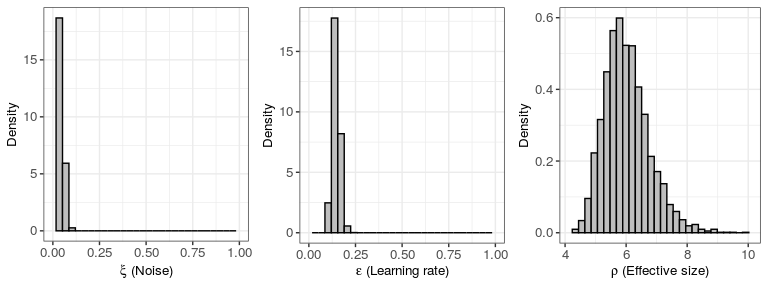
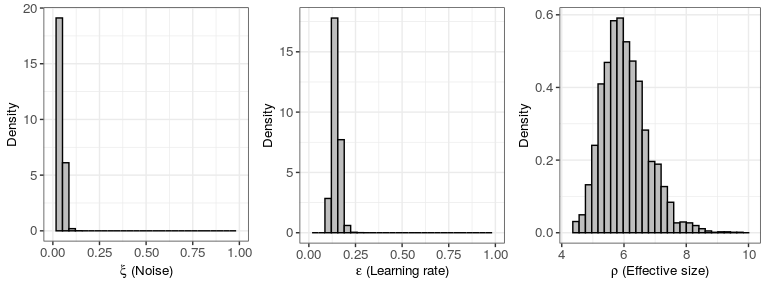
Update docs

diff --git a/articles/getting_started.html b/articles/getting_started.html
@@ -219,8 +219,8 @@
 ## Chain 1: 
 ## Chain 1: 
 ## Chain 1: 
-## Chain 1: Gradient evaluation took 0.001939 seconds
-## Chain 1: 1000 transitions using 10 leapfrog steps per transition would take 19.39 seconds.
+## Chain 1: Gradient evaluation took 0.001829 seconds
+## Chain 1: 1000 transitions using 10 leapfrog steps per transition would take 18.29 seconds.
 ## Chain 1: Adjust your expectations accordingly!
 ## Chain 1: 
 ## Chain 1: 
@@ -234,15 +234,15 @@
 ## Chain 1: 
 ## Chain 1: Begin stochastic gradient ascent.
 ## Chain 1:   iter             ELBO   delta_ELBO_mean   delta_ELBO_med   notes 
-## Chain 1:    100         -830.450             1.000            1.000
-## Chain 1:    200         -815.664             0.509            1.000
-## Chain 1:    300         -812.693             0.341            0.018
-## Chain 1:    400         -809.323             0.256            0.018
-## Chain 1:    500         -809.234             0.205            0.004   MEDIAN ELBO CONVERGED
+## Chain 1:    100         -820.269             1.000            1.000
+## Chain 1:    200         -810.308             0.506            1.000
+## Chain 1:    300         -815.111             0.339            0.012
+## Chain 1:    400         -809.368             0.256            0.012
+## Chain 1:    500         -809.646             0.205            0.007   MEDIAN ELBO CONVERGED
 ## Chain 1: 
 ## Chain 1: Drawing a sample of size 1000 from the approximate posterior... 
 ## Chain 1: COMPLETED.</code></pre>
-<pre><code>## Warning: Pareto k diagnostic value is 1.09. Resampling is disabled.
+<pre><code>## Warning: Pareto k diagnostic value is 1.25. Resampling is disabled.
 ## Decreasing tol_rel_obj may help if variational algorithm has terminated
 ## prematurely. Otherwise consider using sampling instead.</code></pre>
 <pre><code>## 
@@ -348,16 +348,16 @@ output1$allIndPars
 
 ```
 ##    subjID         xi        ep      rho
-## 1       1 0.03912684 0.1390364 5.971566
-## 2       2 0.03559554 0.1622292 6.154059
-## 3       3 0.04195460 0.1277940 5.922376
-## 4       4 0.03149474 0.1494447 6.223886
-## 5       5 0.03442572 0.1491020 6.168325
-## 6       6 0.04100730 0.1539260 6.288472
-## 7       7 0.04275452 0.1481033 5.792658
-## 8       8 0.03397865 0.1612648 6.510263
-## 9       9 0.03957498 0.1452006 6.064876
-## 10     10 0.04719602 0.1302818 5.554479
+## 1       1 0.03937858 0.1388763 5.991021
+## 2       2 0.03602277 0.1614945 6.180092
+## 3       3 0.04288713 0.1274827 5.941119
+## 4       4 0.03170505 0.1484355 6.262789
+## 5       5 0.03462090 0.1485741 6.184602
+## 6       6 0.04236850 0.1536645 6.334553
+## 7       7 0.04314376 0.1491778 5.797528
+## 8       8 0.03471143 0.1611320 6.538876
+## 9       9 0.03987275 0.1451317 6.083010
+## 10     10 0.04784353 0.1302289 5.546315
 ```
 -->
 </div>
@@ -424,8 +424,8 @@ output1$allIndPars
 ## Chain 1: 
 ## Chain 1: 
 ## Chain 1: 
-## Chain 1: Gradient evaluation took 0.004173 seconds
-## Chain 1: 1000 transitions using 10 leapfrog steps per transition would take 41.73 seconds.
+## Chain 1: Gradient evaluation took 0.00253 seconds
+## Chain 1: 1000 transitions using 10 leapfrog steps per transition would take 25.3 seconds.
 ## Chain 1: Adjust your expectations accordingly!
 ## Chain 1: 
 ## Chain 1: 
@@ -439,15 +439,15 @@ output1$allIndPars
 ## Chain 1: 
 ## Chain 1: Begin stochastic gradient ascent.
 ## Chain 1:   iter             ELBO   delta_ELBO_mean   delta_ELBO_med   notes 
-## Chain 1:    100         -833.499             1.000            1.000
-## Chain 1:    200         -819.287             0.509            1.000
-## Chain 1:    300         -819.175             0.339            0.017
-## Chain 1:    400         -823.919             0.256            0.017
-## Chain 1:    500         -818.524             0.206            0.007   MEDIAN ELBO CONVERGED
+## Chain 1:    100         -823.918             1.000            1.000
+## Chain 1:    200         -826.958             0.502            1.000
+## Chain 1:    300         -814.838             0.340            0.015
+## Chain 1:    400         -818.443             0.256            0.015
+## Chain 1:    500         -817.985             0.205            0.004   MEDIAN ELBO CONVERGED
 ## Chain 1: 
 ## Chain 1: Drawing a sample of size 1000 from the approximate posterior... 
 ## Chain 1: COMPLETED.</code></pre>
-<pre><code>## Warning: Pareto k diagnostic value is 1.34. Resampling is disabled.
+<pre><code>## Warning: Pareto k diagnostic value is 1.14. Resampling is disabled.
 ## Decreasing tol_rel_obj may help if variational algorithm has terminated
 ## prematurely. Otherwise consider using sampling instead.</code></pre>
 <pre><code>## 

diff --git a/reference/plotHDI.html b/reference/plotHDI.html
@@ -6,7 +6,9 @@
 <meta http-equiv="X-UA-Compatible" content="IE=edge">
 <meta name="viewport" content="width=device-width, initial-scale=1.0">
 
-<title>Plots highest density interval (HDI) from (MCMC) samples and prints HDI in the R console. HDI is indicated by a red line. — plotHDI • hBayesDM</title>
+<title>Plots highest density interval (HDI) from (MCMC) samples and prints HDI in the R console.
+HDI is indicated by a red line.
+Based on John Kruschke's codes. — plotHDI • hBayesDM</title>
 
 
 <!-- jquery -->
@@ -37,8 +39,12 @@
   <link href="../extra.css" rel="stylesheet">
   
 
-<meta property="og:title" content="Plots highest density interval (HDI) from (MCMC) samples and prints HDI in the R console. HDI is indicated by a red line. — plotHDI" />
-<meta property="og:description" content="Based on John Kruschke's codes http://www.indiana.edu/~kruschke/DoingBayesianDataAnalysis/" />
+<meta property="og:title" content="Plots highest density interval (HDI) from (MCMC) samples and prints HDI in the R console.
+HDI is indicated by a red line.
+Based on John Kruschke's codes. — plotHDI" />
+<meta property="og:description" content="Plots highest density interval (HDI) from (MCMC) samples and prints HDI in the R console.
+HDI is indicated by a red line.
+Based on John Kruschke's codes." />
 <meta name="twitter:card" content="summary" />
 
 
@@ -122,13 +128,17 @@
 <div class="row">
   <div class="col-md-9 contents">
     <div class="page-header">
-    <h1>Plots highest density interval (HDI) from (MCMC) samples and prints HDI in the R console. HDI is indicated by a red line.</h1>
+    <h1>Plots highest density interval (HDI) from (MCMC) samples and prints HDI in the R console.
+HDI is indicated by a red line.
+Based on John Kruschke's codes.</h1>
     <small class="dont-index">Source: <a href='https://github.com/CCS-Lab/hBayesDM/blob/master/R/plotHDI.R'><code>R/plotHDI.R</code></a></small>
     <div class="hidden name"><code>plotHDI.Rd</code></div>
     </div>
 
     <div class="ref-description">
-    <p>Based on John Kruschke's codes <a href='http://www.indiana.edu/~kruschke/DoingBayesianDataAnalysis/'>http://www.indiana.edu/~kruschke/DoingBayesianDataAnalysis/</a></p>
+    <p>Plots highest density interval (HDI) from (MCMC) samples and prints HDI in the R console.
+HDI is indicated by a red line.
+Based on John Kruschke's codes.</p>
     </div>
 
     <pre class="usage"><span class='fu'>plotHDI</span>(<span class='kw'>sample</span> <span class='kw'>=</span> <span class='kw'>NULL</span>, <span class='kw'>credMass</span> <span class='kw'>=</span> <span class='fl'>0.95</span>, <span class='kw'>Title</span> <span class='kw'>=</span> <span class='kw'>NULL</span>,

diff --git a/reference/HDIofMCMC.html b/reference/HDIofMCMC.html
@@ -38,8 +38,9 @@
   
 
 <meta property="og:title" content="Compute Highest-Density Interval — HDIofMCMC" />
-<meta property="og:description" content="Computes the highest density interval from a sample of representative values, estimated as shortest credible interval.
-Downloaded from John Kruschke's website http://www.indiana.edu/~kruschke/DoingBayesianDataAnalysis/" />
+<meta property="og:description" content="Computes the highest density interval from a sample of representative values,
+estimated as shortest credible interval.
+Based on John Kruschke's codes." />
 <meta name="twitter:card" content="summary" />
 
 
@@ -129,8 +130,9 @@ Downloaded from John Kruschke's website http://www.indiana.edu/~kruschke/DoingBa
     </div>
 
     <div class="ref-description">
-    <p>Computes the highest density interval from a sample of representative values, estimated as shortest credible interval.
-Downloaded from John Kruschke's website <a href='http://www.indiana.edu/~kruschke/DoingBayesianDataAnalysis/'>http://www.indiana.edu/~kruschke/DoingBayesianDataAnalysis/</a></p>
+    <p>Computes the highest density interval from a sample of representative values,
+estimated as shortest credible interval.
+Based on John Kruschke's codes.</p>
     </div>
 
     <pre class="usage"><span class='fu'>HDIofMCMC</span>(<span class='no'>sampleVec</span>, <span class='kw'>credMass</span> <span class='kw'>=</span> <span class='fl'>0.95</span>)</pre>

diff --git a/reference/index.html b/reference/index.html
@@ -457,7 +457,9 @@
         <td>
           <p><code><a href="plotHDI.html">plotHDI()</a></code> </p>
         </td>
-        <td><p>Plots highest density interval (HDI) from (MCMC) samples and prints HDI in the R console. HDI is indicated by a red line.</p></td>
+        <td><p>Plots highest density interval (HDI) from (MCMC) samples and prints HDI in the R console.
+HDI is indicated by a red line.
+Based on John Kruschke's codes.</p></td>
       </tr><tr>
         
         <td>

diff --git a/news/index.html b/news/index.html
@@ -126,7 +126,7 @@
 
     <div id="hbayesdm-1-0-2" class="section level1">
 <h1 class="page-header">
-<a href="#hbayesdm-1-0-2" class="anchor"></a>hBayesDM 1.0.2<small> Unreleased </small>
+<a href="#hbayesdm-1-0-2" class="anchor"></a>hBayesDM 1.0.2<small> 2019-11-13 </small>
 </h1>
 <ul>
 <li>Fix an error on using data.frame objects as data (<a href='https://github.com/CCS-Lab/hBayesDM/issues/112'>#112</a>).</li>

diff --git a/articles/getting_started.md b/articles/getting_started.md
@@ -181,8 +181,8 @@ output1 = gng_m1("example", ncore=4)
 ## Chain 1: 
 ## Chain 1: 
 ## Chain 1: 
-## Chain 1: Gradient evaluation took 0.001939 seconds
-## Chain 1: 1000 transitions using 10 leapfrog steps per transition would take 19.39 seconds.
+## Chain 1: Gradient evaluation took 0.001829 seconds
+## Chain 1: 1000 transitions using 10 leapfrog steps per transition would take 18.29 seconds.
 ## Chain 1: Adjust your expectations accordingly!
 ## Chain 1: 
 ## Chain 1: 
@@ -196,18 +196,18 @@ output1 = gng_m1("example", ncore=4)
 ## Chain 1: 
 ## Chain 1: Begin stochastic gradient ascent.
 ## Chain 1:   iter             ELBO   delta_ELBO_mean   delta_ELBO_med   notes 
-## Chain 1:    100         -830.450             1.000            1.000
-## Chain 1:    200         -815.664             0.509            1.000
-## Chain 1:    300         -812.693             0.341            0.018
-## Chain 1:    400         -809.323             0.256            0.018
-## Chain 1:    500         -809.234             0.205            0.004   MEDIAN ELBO CONVERGED
+## Chain 1:    100         -820.269             1.000            1.000
+## Chain 1:    200         -810.308             0.506            1.000
+## Chain 1:    300         -815.111             0.339            0.012
+## Chain 1:    400         -809.368             0.256            0.012
+## Chain 1:    500         -809.646             0.205            0.007   MEDIAN ELBO CONVERGED
 ## Chain 1: 
 ## Chain 1: Drawing a sample of size 1000 from the approximate posterior... 
 ## Chain 1: COMPLETED.
 ```
 
 ```
-## Warning: Pareto k diagnostic value is 1.09. Resampling is disabled.
+## Warning: Pareto k diagnostic value is 1.25. Resampling is disabled.
 ## Decreasing tol_rel_obj may help if variational algorithm has terminated
 ## prematurely. Otherwise consider using sampling instead.
 ```
@@ -352,16 +352,16 @@ output1$allIndPars
 
 ```
 ##    subjID         xi        ep      rho
-## 1       1 0.03912684 0.1390364 5.971566
-## 2       2 0.03559554 0.1622292 6.154059
-## 3       3 0.04195460 0.1277940 5.922376
-## 4       4 0.03149474 0.1494447 6.223886
-## 5       5 0.03442572 0.1491020 6.168325
-## 6       6 0.04100730 0.1539260 6.288472
-## 7       7 0.04275452 0.1481033 5.792658
-## 8       8 0.03397865 0.1612648 6.510263
-## 9       9 0.03957498 0.1452006 6.064876
-## 10     10 0.04719602 0.1302818 5.554479
+## 1       1 0.03937858 0.1388763 5.991021
+## 2       2 0.03602277 0.1614945 6.180092
+## 3       3 0.04288713 0.1274827 5.941119
+## 4       4 0.03170505 0.1484355 6.262789
+## 5       5 0.03462090 0.1485741 6.184602
+## 6       6 0.04236850 0.1536645 6.334553
+## 7       7 0.04314376 0.1491778 5.797528
+## 8       8 0.03471143 0.1611320 6.538876
+## 9       9 0.03987275 0.1451317 6.083010
+## 10     10 0.04784353 0.1302289 5.546315
 ```
 -->
 
@@ -454,8 +454,8 @@ output3 = gng_m3(data="example", niter=2000, nwarmup=1000, modelRegressor=TRUE)
 ## Chain 1: 
 ## Chain 1: 
 ## Chain 1: 
-## Chain 1: Gradient evaluation took 0.004173 seconds
-## Chain 1: 1000 transitions using 10 leapfrog steps per transition would take 41.73 seconds.
+## Chain 1: Gradient evaluation took 0.00253 seconds
+## Chain 1: 1000 transitions using 10 leapfrog steps per transition would take 25.3 seconds.
 ## Chain 1: Adjust your expectations accordingly!
 ## Chain 1: 
 ## Chain 1: 
@@ -469,18 +469,18 @@ output3 = gng_m3(data="example", niter=2000, nwarmup=1000, modelRegressor=TRUE)
 ## Chain 1: 
 ## Chain 1: Begin stochastic gradient ascent.
 ## Chain 1:   iter             ELBO   delta_ELBO_mean   delta_ELBO_med   notes 
-## Chain 1:    100         -833.499             1.000            1.000
-## Chain 1:    200         -819.287             0.509            1.000
-## Chain 1:    300         -819.175             0.339            0.017
-## Chain 1:    400         -823.919             0.256            0.017
-## Chain 1:    500         -818.524             0.206            0.007   MEDIAN ELBO CONVERGED
+## Chain 1:    100         -823.918             1.000            1.000
+## Chain 1:    200         -826.958             0.502            1.000
+## Chain 1:    300         -814.838             0.340            0.015
+## Chain 1:    400         -818.443             0.256            0.015
+## Chain 1:    500         -817.985             0.205            0.004   MEDIAN ELBO CONVERGED
 ## Chain 1: 
 ## Chain 1: Drawing a sample of size 1000 from the approximate posterior... 
 ## Chain 1: COMPLETED.
 ```
 
 ```
-## Warning: Pareto k diagnostic value is 1.34. Resampling is disabled.
+## Warning: Pareto k diagnostic value is 1.14. Resampling is disabled.
 ## Decreasing tol_rel_obj may help if variational algorithm has terminated
 ## prematurely. Otherwise consider using sampling instead.
 ```
